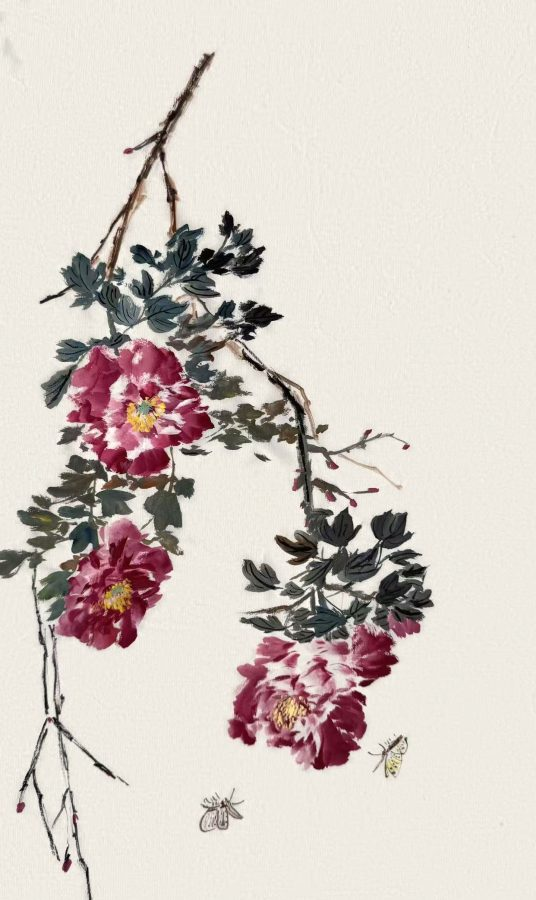
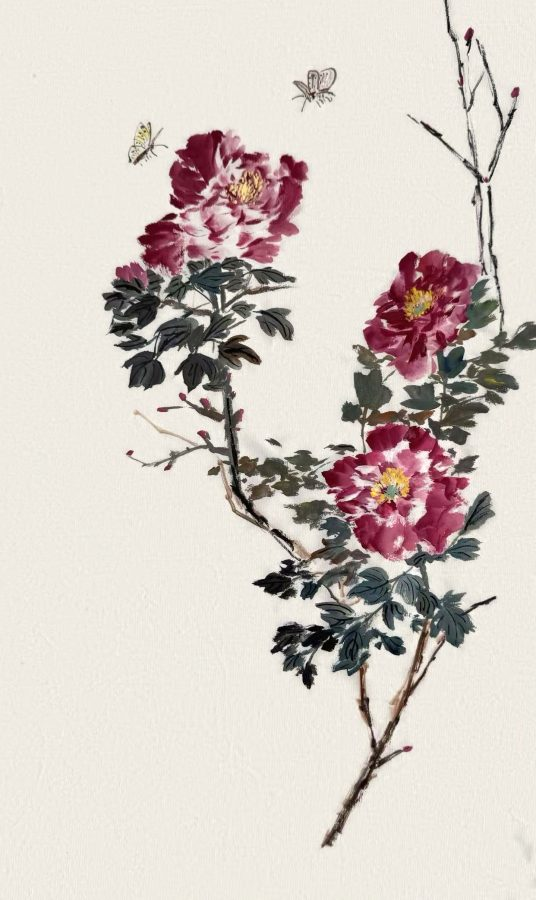
Rotate peerless-beauty-2 (18534) 180°, fix both series notes

diff --git a/site/works.js b/site/works.js
@@ -55,8 +55,8 @@ const WORKS = [
     date: "2026",
     medium: COLOR_ON_PAPER, size: null,
     note: {
-      en: "Crimson peonies hanging from a long branch, with two moths below. Inscribed with a classical couplet praising the peony as the loveliest flower under heaven, and dated 丙午七月 (the seventh lunar month of 2026). " + STUDY_NOTE.en,
-      zh: "长枝垂挂绯红牡丹，下有双蛾。题古人咏牡丹联句，款署丙午七月。" + STUDY_NOTE.zh,
+      en: "Crimson peonies open along a tall branch, with two moths above. Inscribed with a classical couplet praising the peony as the loveliest flower under heaven, and dated 丙午七月 (the seventh lunar month of 2026). " + STUDY_NOTE.en,
+      zh: "长枝上绯红牡丹盛开，上有双蛾。题古人咏牡丹联句，款署丙午七月。" + STUDY_NOTE.zh,
     },
   },
   {
@@ -66,8 +66,8 @@ const WORKS = [
     date: null,
     medium: COLOR_ON_PAPER, size: null,
     note: {
-      en: "The same hanging branch of peonies, left without an inscription. " + STUDY_NOTE.en,
-      zh: "同一垂枝牡丹构图，未题款。" + STUDY_NOTE.zh,
+      en: "The same branch of peonies and moths, left without an inscription. " + STUDY_NOTE.en,
+      zh: "同一牡丹双蛾构图，未题款。" + STUDY_NOTE.zh,
     },
   },
   {
